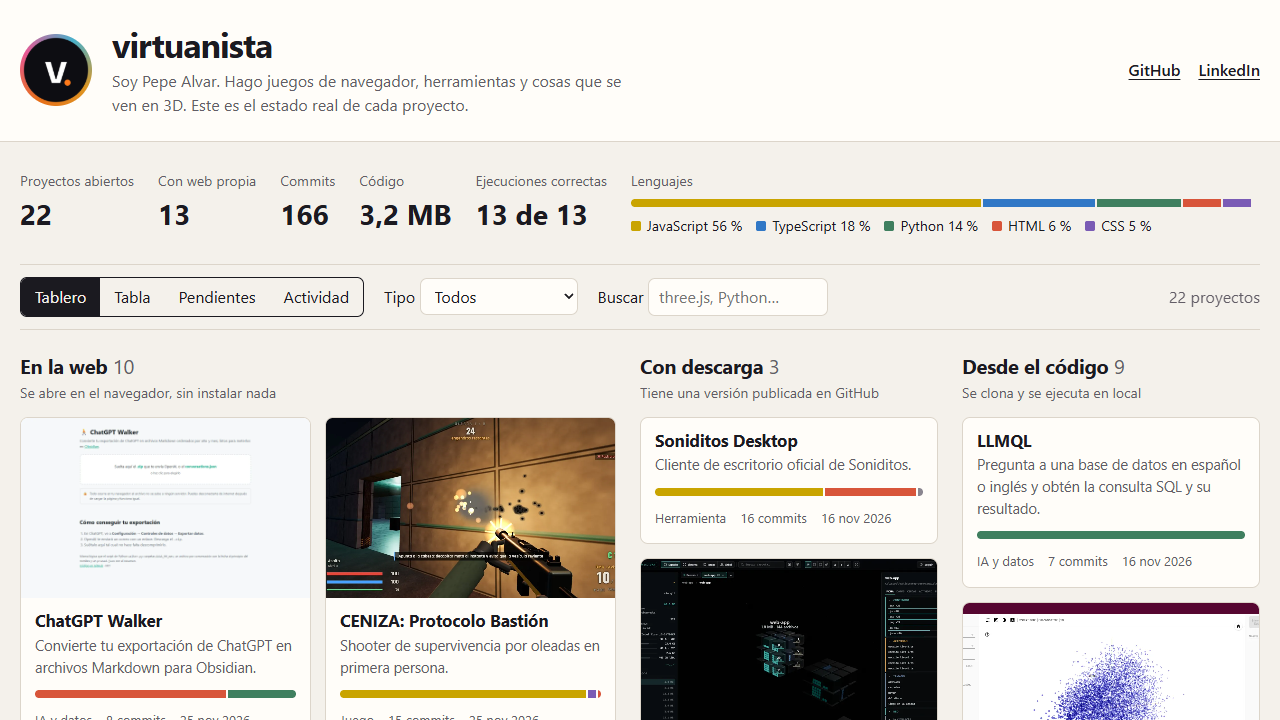
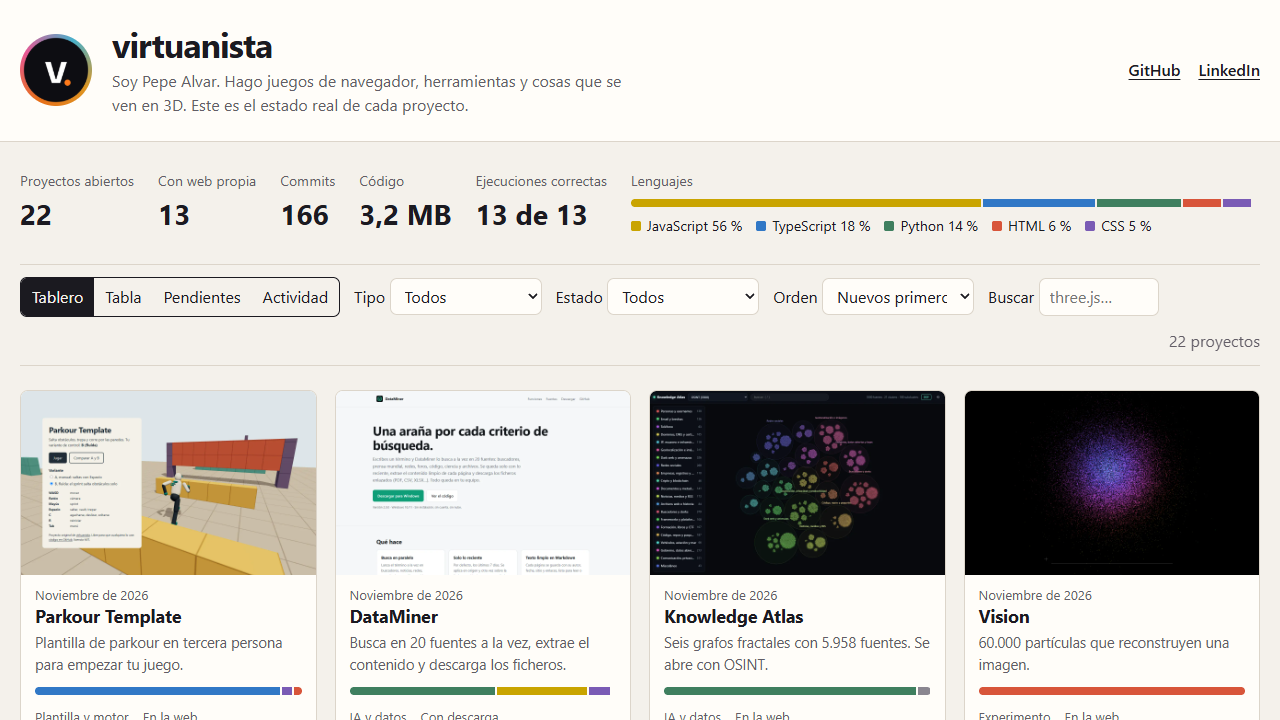
Ordena los proyectos por fecha real de inicio, en ambos sentidos
Claude-Session: https://claude.ai/code/session_01QCYTMifvhu6XBLMvYwzEKC

diff --git a/src/style.css b/src/style.css
@@ -20,22 +20,22 @@ nav { display: flex; gap: 18px; font-weight: 600; }
 .sum .wide dd { font-size: 14px; font-weight: 400; white-space: normal; }
 .bar { display: flex; height: 8px; border-radius: 4px; overflow: hidden; gap: 2px; margin: 8px 0; } .bar i { min-width: 3px; }
 .leg { display: flex; flex-wrap: wrap; gap: 4px 14px; } .leg i { display: inline-block; width: 10px; height: 10px; border-radius: 2px; margin-right: 6px; }
-.tools { position: sticky; top: 0; z-index: 3; display: flex; flex-wrap: wrap; gap: 12px 20px; align-items: center; padding: 12px 0; background: var(--bg); border-block: 1px solid var(--line); }
+.tools { position: sticky; top: 0; z-index: 3; display: flex; flex-wrap: wrap; gap: 12px 14px; align-items: center; padding: 12px 0; background: var(--bg); border-block: 1px solid var(--line); }
 .seg { display: flex; border: 1px solid var(--ink); border-radius: 7px; overflow: hidden; }
 button, select, input { font: inherit; color: inherit; }
-.seg button { border: 0; background: none; padding: 7px 14px; cursor: pointer; } .seg button:focus-visible { outline-offset: -3px; }
+.seg button { border: 0; background: none; padding: 7px 11px; cursor: pointer; } .seg button:focus-visible { outline-offset: -3px; }
 .seg [aria-pressed=true] { background: var(--ink); color: var(--bg); }
-select, input { background: var(--panel); border: 1px solid var(--line); border-radius: 7px; padding: 6px 10px; } input { width: 180px; }
+select, input { background: var(--panel); border: 1px solid var(--line); border-radius: 7px; padding: 6px 10px; } input { width: 120px; } .tools select { max-width: 152px; }
 #count { margin-left: auto; color: var(--soft); }
 .view { padding: 24px 0 56px; } .view > h2 { font-size: 24px; margin-bottom: 16px; }
-.board { display: grid; grid-template-columns: 2fr 1fr 1fr; gap: 24px; align-items: start; }
-.col { display: grid; grid-template-columns: repeat(auto-fill, minmax(230px, 1fr)); gap: 14px; }
-.col h2, .hint { grid-column: 1 / -1; } .col h2 { font-size: 20px; } .col h2 span { color: var(--soft); font-weight: 400; } .hint { margin: -10px 0 0; font-size: 14px; color: var(--soft); }
+.board { display: grid; grid-template-columns: repeat(auto-fill, minmax(270px, 1fr)); gap: 18px; }
+.card time { display: block; padding-top: 10px; font-size: 13px; color: var(--soft); } .card time::first-letter { text-transform: uppercase; }
+.cover { display: flex; flex-direction: column; justify-content: center; gap: 2px; margin: 0 -14px; padding: 0 20px; aspect-ratio: 16 / 10; background: var(--line); color: var(--ink); font-size: 24px; font-weight: 650; line-height: 1.2; letter-spacing: -.02em; }
 .card { display: flex; flex-direction: column; background: var(--panel); border: 1px solid var(--line); border-radius: 8px; overflow: hidden; position: relative; padding: 0 14px 12px; transition: border-color .15s; }
 .card:hover { border-color: var(--accent); }
 .card .open { text-decoration: none; } .card .open::after { content: ""; position: absolute; inset: 0; } .card .open:focus-visible { outline: none; } .card:focus-within { outline: 3px solid var(--accent); }
 .card img { display: block; width: calc(100% + 28px); height: auto; margin: 0 -14px; aspect-ratio: 16 / 10; object-fit: cover; max-width: none; }
-.card h3 { font-size: 17px; padding-top: 12px; } .card p { margin: 4px 0; font-size: 14.5px; color: var(--soft); flex: 1; }
+.card h3 { font-size: 18px; padding-top: 2px; } .card p { margin: 4px 0; font-size: 14.5px; color: var(--soft); flex: 1; }
 .card .meta { display: flex; flex-wrap: wrap; gap: 2px 14px; font-size: 13px; flex: none; }
 .scroll { overflow-x: auto; background: var(--panel); border: 1px solid var(--line); border-radius: 8px; }
 table { border-collapse: collapse; width: 100%; font-size: 15px; } th, td { text-align: left; padding: 11px 14px; border-bottom: 1px solid var(--line); white-space: nowrap; } tbody tr:last-child > * { border: 0; }
@@ -55,6 +55,6 @@ dialog { width: min(1080px, calc(100% - 24px)); max-height: calc(100dvh - 32px);
 dl:not(.sum) { display: grid; grid-template-columns: auto 1fr; gap: 6px 18px; margin: 0; } .sheet dt { color: var(--soft); } .sheet dd { margin: 0; }
 #empty { padding: 20px 0 60px; }
 footer { padding-block: 24px 48px; border-top: 1px solid var(--line); text-align: center; color: var(--soft); font-size: 15px; } footer p { margin: 4px 0; } footer img { max-width: 100%; }
-@media (max-width: 1100px) { .sum { grid-template-columns: repeat(3, 1fr); } .sum .wide { grid-column: 1 / -1; } .board { grid-template-columns: 1fr; } }
+@media (max-width: 1100px) { .sum { grid-template-columns: repeat(3, 1fr); } .sum .wide { grid-column: 1 / -1; } }
 @media (max-width: 700px) { .top .wrap { flex-wrap: wrap; } .top .wrap div { flex: 1 0 70%; } .sum { grid-template-columns: 1fr 1fr; gap: 16px; } .tools { position: static; } .seg { width: 100%; } .seg button { flex: 1; padding-inline: 4px; } #count { margin: 0; } .two, .shots.n2, .shots.n3 { grid-template-columns: 1fr; } .log.big li, .log li { grid-template-columns: 1fr; gap: 0; } .sheet { padding: 16px; } }
 @media (prefers-reduced-motion: reduce) { * { transition: none !important; } }

diff --git a/src/app.js b/src/app.js
@@ -1,15 +1,22 @@
 const $ = s => document.querySelector(s), $$ = s => [...document.querySelectorAll(s)];
-const type = $('#type'), q = $('#q');
+const type = $('#type'), stage = $('#stage'), order = $('#order'), q = $('#q');
 let view = 'board';
 function filter() {
   const t = type.value, s = q.value.trim().toLowerCase();
-  for (const el of $$('[data-q]')) el.hidden = (t && el.dataset.type !== t) || !el.dataset.q.includes(s);
+  for (const el of $$('[data-q]')) el.hidden = (t && el.dataset.type !== t) || (stage.value && el.dataset.stage !== stage.value) || !el.dataset.q.includes(s);
   const n = $$(`#${view} [data-q]:not([hidden])`).length;
-  for (const c of $$('.col')) { const k = c.querySelectorAll('.card:not([hidden])').length; c.hidden = !k; c.querySelector('h2 span').textContent = k; }
   $('#count').textContent = `${n} ${view === 'todo' ? 'pendientes' : view === 'log' ? 'cambios' : 'proyectos'}`;
   $('#empty').hidden = n > 0;
 }
-type.onchange = q.oninput = filter;
+type.onchange = stage.onchange = q.oninput = filter;
+// El HTML llega del más nuevo al más antiguo; invertirlo entero mantiene los empates coherentes.
+const lists = ['#board', '#table tbody', '#todo ul', '#log ol'].map(s => [$(s), [...$(s).children]]);
+order.onchange = () => {
+  const old = order.value === 'old';
+  for (const [el, kids] of lists) el.append(...(old ? [...kids].reverse() : kids));
+  for (const x of $$('thead th')) x.removeAttribute('aria-sort');
+  $$('thead th')[3].setAttribute('aria-sort', old ? 'ascending' : 'descending');
+};
 for (const b of $$('[data-view]')) b.onclick = () => {
   view = b.dataset.view;
   for (const x of $$('[data-view]')) x.setAttribute('aria-pressed', x === b);
